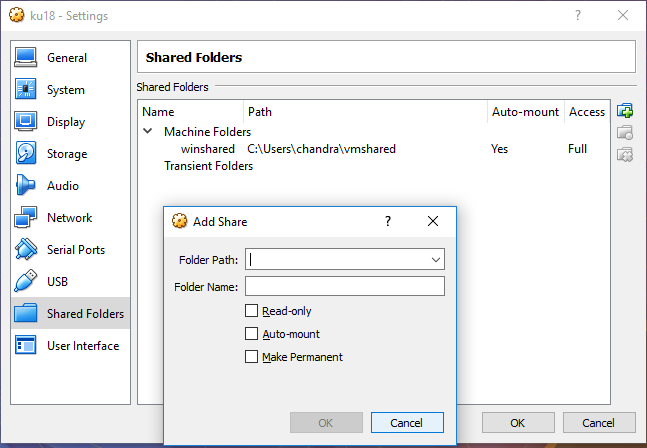
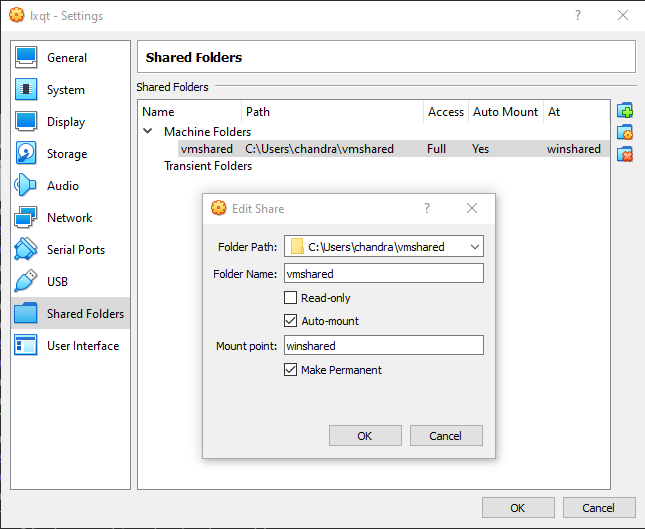
JAC

Changed region(s): [[0.0, 0.0, 1.0, 1.0], [0.0, 0.9062, 0.031, 0.9375]]

diff --git a/index.html b/index.html
@@ -221,7 +221,7 @@ the exercises.
 <h4>Timing</h4>
 <a href="nowhere" onclick='$("#timing").toggle(); return(false)'>&#9660;&#9650;</a>
 <div class="slide" id="timing">
-<h6>Tues 30 and Wed 31 October 2018</h6>
+<h6>Wed 17 and Thu 18 November 2021</h6>
 <table>
 <tr><td>0930 to 1100</td><td>Course</td></tr>
 <tr><td>1100 to 1130</td><td>Coffee break</td></tr>
@@ -231,18 +231,6 @@ the exercises.
 <tr><td>1530 to 1600</td><td>Coffee break</td></tr>
 <tr><td>1600 to 1730</td><td>Course</td></tr>
 </table>
-
-<!--
-<h6>Friday</h6>
-<table>
-<tr><td>0930 to 1100</td><td>Course</td></tr>
-<tr><td>1100 to 1300</td><td>Coffee break, Friday Seminar and
-Lunch break (lunch not provided)</td></tr>
-<tr><td>1300 to 1500</td><td>Course</td></tr>
-<tr><td>1500 to 1530</td><td>Coffee break</td></tr>
-<tr><td>1530 to 1730</td><td>Course</td></tr>
-</table>
--->
 
 <a href="nowhere" onclick='$("#timing").hide("fast"); return(false)'>&#9650;</a>
 <hr/>
@@ -294,13 +282,14 @@ with one being the &quot;flagship&quot; flavour or spin.
 <li>KDE</li>
 <li>XFCE</li>
 <li>LXDE</li>
+<li>LXQt</li>
 <li>Mate</li>
 <li>Cinnamon</li>
 </ul>
 <p>
-The difference between flavours is not just in looks but also in the amount
-of resources they use. Some like XFCE are really lightweight and well suited
-for older, low spec machines.
+The difference between flavours is not just in looks but also in the amount of
+resources they use. Some like XFCE and LXQt are really lightweight and well
+suited for older, low spec machines.
 </p>
 
 <a href="nowhere" onclick='$("#whatlinux").hide("fast"); return(false)'>&#9650;</a>
@@ -366,8 +355,8 @@ the fact that a resource is shared with other VMs.</li>
 </ul>
 <p>
 We will use <em>Oracle VirtualBox</em> to provide us with a virtual machine
-on which we will now install a flavour of <em>Ubuntu</em> Linux known as
-<em>Kubuntu</em>.
+on which we will now install a flavour of <em>Fedora 34</em> Linux known as
+<em>LXQt</em>.
 </p>
 <p>
 If you had a new physical machine with no OS, the process of installing
@@ -423,9 +412,9 @@ areas of the disk to be read.</li>
 <h5>So...</h5>
 <ul>
 <li>It is usual to boot from a live image and then do a full install.</li>
-<li>The boot image we will be using is <em>Kubuntu 18.04.3 LTS</em>.</li>
+<li>The boot image we will be using is <em>LXQt spin of Fedora 34</em>.</li>
 <li>It has been downloaded from
-<a href="https://kubuntu.org/" target = "_blank">kubuntu.org</a></li>
+<a href="https://spins.fedoraproject.org/" target = "_blank">spins.fedoraproject.org</a></li>
 </ul>
 <a href="nowhere" onclick='$("#firstboot").hide("fast"); return(false)'>&#9650;</a>
 <hr/>
@@ -439,12 +428,13 @@ areas of the disk to be read.</li>
 <div class="slide" id="winvd">
 <ul>
 <li>Press the tab key once while keeping the windows key pressed. 
-I will refer to this as the <em>Meta-tab</em> combination from now on.</li>
+In Linux and Unix literature and documentation this key is often referred to as
+the <em>super key</em>.</li>
 <li>Then click on the &quot;+ New Desktop&quot; icon in the lower right part
 of the screen.</li>
 <li>Do the above again to end up with a total of 3 virtual desktops.</li>
 <li>Click on the first one.</li>
-<li>You can also use the Meta-Control-Arrow key combination to switch between
+<li>You can also use the Super-Control-Arrow key combination to switch between
 the virtual desktops.</li>
 </ul>
 <a href="nowhere" onclick='$("#winvd").hide("fast"); return(false)'>&#9650;</a>
@@ -468,8 +458,8 @@ it disabled.
 &rarr; Host Key Combination
 </li>
 <li>Set this to the Alt key on the right of the space bar.</li>
-<li>Ask for a new virtual machine. Give it a name. (We suggest &quot;ku20&quot;)</li>
-<li>Change the type to Linux and Version to 64bit Ubuntu.</li>
+<li>Ask for a new virtual machine. Give it a name. (We suggest &quot;lxqt&quot;)</li>
+<li>Change the type to Linux and Version to 64bit Fedora.</li>
 <li>Specify the amount of memory you want it to use.
 We will use 8192 MB.</li>
 <li>Create a <em>virtual hard disk</em>.</li>
@@ -477,16 +467,16 @@ We will use 8192 MB.</li>
 <li>We will use a fixed storage size of 20 GB and create the
 virtual hard disk.</li>
 <li>In settings, we increase the number of processors to use to 3 and
-the video memory to about 84 MB.</li>
+the video memory to about 64 MB.</li>
 <li>A virtual optical drive is provided and we will put our bootable
 image file in it.<br/>
-<em>C:/coursefiles/IntroLinux/kubuntu-20.04.3-desktop-amd64.iso</em></li>
+<em>C:/coursefiles/IntroLinux/Fedora-LXQt-Live-x86_64-34-1.2.iso</em></li>
 <li>Rest of the default settings are fine.</li>
 <li>Click on the green arrow labelled &quot;Start&quot; to boot the VM and wait till you
 get something like below.</li>
 </ul>
 <br/>
-<img src = "install_button.jpg" width = "600 px"/>
+<img src = "liveboot.jpg" width = "800 px"/>
 <br/>
 <a href="nowhere" onclick='$("#ovb").hide("fast"); return(false)'>&#9650;</a>
 <hr/>
@@ -494,10 +484,10 @@ get something like below.</li>
 <!-- }}} -->
 
 
-<!-- {{{ Installing Kubuntu 18.04 LTS -->
-<h4>Installing Kubuntu 18.04 LTS</h4>
-<a href="nowhere" onclick='$("#kuinst").toggle(); return(false)'>&#9660;&#9650;</a>
-<div class="slide" id="kuinst">
+<!-- {{{ Installing Fedora 34 (LXQt) -->
+<h4>Installing Fedora 34 (LXQt)</h4>
+<a href="nowhere" onclick='$("#linuxinst").toggle(); return(false)'>&#9660;&#9650;</a>
+<div class="slide" id="linuxinst">
 <!--
 <ul>
 <li>Ask for a new virtual machine. Give it a name.</li>
@@ -508,6 +498,9 @@ I will talk you through the installation process as I do it and you
 should follow the steps on your machines. Hopefully, at the end of it
 we will all have Linux running in our VMs.
 </p>
+<ul>
+  <li>Set the regular user you create to be an administrator as well.</li>
+</ul>
 
 <p>
 Example username: stu26 (use whatever you like but not too long)<br/>
@@ -519,7 +512,7 @@ Suggested hostname: vlin
 It is important to remember the password you use here.
 </p>
 
-<a href="nowhere" onclick='$("#kuinst").hide("fast"); return(false)'>&#9650;</a>
+<a href="nowhere" onclick='$("#linuxinst").hide("fast"); return(false)'>&#9650;</a>
 <hr/>
 </div>
 <!-- }}} -->
@@ -530,30 +523,40 @@ It is important to remember the password you use here.
 <a href="nowhere" onclick='$("#postinst").toggle(); return(false)'>&#9660;&#9650;</a>
 <div class="slide" id="postinst">
 <ul>
-<li>Set screen resolution to 1680x1050 for now.</li>
 <li>Make <span class="code">sudo</span> passwordless.</li>
 </ul>
+<pre class="code">
+sudo EDITOR=nano visudo
+</pre>
 <ul>
 <li>Update all the software packages.</li>
 </ul>
 <pre class="code">
-sudo apt update
-sudo apt upgrade
+sudo dnf check-update
+sudo dnf update
 </pre>
 
-While the packages are being upgraded we will
 <ul>
-<li>Configure Virtual desktops and switching shortcuts.</li>
-<li>Configure the task manager.</li>
+<li>While the packages are being upgraded we will</li>
+<ul class="lev2">
+<li>Increase the number of virtual desktops to four.</li>
+<li>Configure the task manager to show only tasks from the current desktop.</li>
+<li>And make a new user group named <em>training</em> and modify our login to
+make ourself a member of this group.</li>
+</ul>
+<pre class="code">
+sudo groupadd training
+sudo usermod -a -G training sco
+</pre>
 </ul>
 
-Before we can install VirtualBox Gest Additions we need install GCC and make,
+<!--
+Before we can install VirtualBox Guest Additions we need install GCC and make,
 and reboot the virtual machine.
 <ul>
 <li>Install <span class="code">GCC</span> and <span class="code">make</span></li>
 <li><span class="code">sudo reboot</span></li>
 </ul>
-
 
 <ul>
 <li>VirtualBox Guest Additions.</li>
@@ -562,48 +565,45 @@ and reboot the virtual machine.
 cd /media/stu26/VBox_GAs_6.0.14
 sudo ./VBoxLinuxAdditions.run 
 </pre>
+-->
 
+<ul>
+  <li>Once the updates are done we will shut down the virtual machine by one of
+    the following commands</li>
+</ul>
+<pre class="code">
+sudo poweroff
+sudo shutdown -h now
+# sudo reboot # Do not use now.
+</pre>
+
+<p>
+After the reboot, go to the virtual desktop 3 and start the Falkon web browser.
+In the browser go to this <br/>
+http://streptomyces.org.uk/customers/training/linux/nov2021/<br/>
+URL. This is to minimise the need to switch between Windows and our
+Linux virtual machine.
+</p>
 
 <ul>
 <li>Install <em>parallel</em></li>
 </ul>
 <pre class="code">
-sudo apt install parallel
+sudo dnf install parallel
 </pre>
 
 <ul>
-<li>Search and install <em>NCBI Blast+</em></li>
+<li>Install <em>NCBI Blast+</em></li>
 </ul>
-<pre class="code">
-sudo apt search ncbi-blast
-sudo apt install ncbi-blast+
-</pre>
-
-<ul>
-<li>Make a new user group named <em>training</em> and add yourself to it.</li>
-</ul>
-<pre class="code">
-sudo addgroup training
-sudo addgroup stu26 training
-</pre>
-
-<ul>
-<li>Reboot.</li>
-</ul>
-<pre class="code">
-sudo reboot
-</pre>
-
 <p>
-After the reboot, go to the virtual desktop 3 and start Firefox.
-In Firefox, go to this <br/>
-http://streptomyces.org.uk/customers/training/linux/
-URL. This is to minimise the need to switch between Windows and our
-Kubuntu virtual machine.
-</p>
-<p>
-If you have not already done so, make your virtual machine full screen.
-</p>
+<a href="https://ftp.ncbi.nlm.nih.gov/blast/executables/blast+/LATEST/" target="_blank">
+  From here</a> you can get the following FTP url<br/>
+<em>https://ftp.ncbi.nlm.nih.gov/blast/executables/blast+/LATEST/ncbi-blast-2.12.0+-1.x86_64.rpm</em><br/>
+which can be fed to <em>dnf</em> directly.
+<pre class="code">
+sudo dnf install \
+https://ftp.ncbi.nlm.nih.gov/blast/executables/blast+/LATEST/ncbi-blast-2.12.0+-1.x86_64.rpm
+</pre>
 
 <a href="nowhere" onclick='$("#postinst").hide("fast"); return(false)'>&#9650;</a>
 <hr/>
@@ -616,11 +616,11 @@ If you have not already done so, make your virtual machine full screen.
 <a href="nowhere" onclick='$("#gui").toggle(); return(false)'>&#9660;&#9650;</a>
 <div class="slide" id="gui">
 <ul>
-<li>The desktop and the window manager.</li>
-<li>Several desktop environments are available e.g. KDE, Gnome, XFCE, LXDE</li>
+<li>The desktop environment and the window manager.</li>
+<li>Several desktop environments are available e.g. KDE, Gnome, XFCE, LXDE, LXQt.</li>
 <li>They come with their window managers.</li>
-<li>KDE (at this time) uses a window manager known as Plasma.</li>
-<li>At work I use KDE but with a different window manager (i3wm).</li>
+<li>LXQt uses a window manager known as Openbox.</li>
+<li>I usually use KDE but replace the default Plasma window manager with i3wm.</li>
 <li>If you use start using Linux regularly it is worth trying out some
 of the other desktops / window managers. You might find something better suited
 to your style of working.</li>
@@ -641,6 +641,20 @@ that yourself.</li>
 <a href="nowhere" onclick='$("#OS").toggle(); return(false)'>&#9660;&#9650;</a>
 <div class="slide" id="OS">
 <img src = "architecture.jpg"><br/>
+<ul>
+  <li>Kernel is the only layer that can talk to the hardware.</li>
+  <li>Processes make requests to the kernel using <em>system calls</em>.</li>
+  <li>Programmers have access to system calls via an <em>Application
+      Programming Interface</em> which is available in the form of a <em>C
+      library</em> which in case of Linux happens to be <em>glibc</em>.</li>
+  <li>The application layer is itself multilayered.</li>
+  <ul class="lev2">
+  <li>BASH provides you with a user interface in the form of commands it recognizes.</li>
+  <li>It interprets and translates your commands into system calls for the kernel.</li>
+  <li>The kernel get the hardware to do what is needed.</li>
+  </ul>
+  <li>A byte compiled language such as Java has an additional layer.</li>
+</ul>
 <div class="instructor">
 * Memory is volatile, storage is permanent.
 * The processor has a tiny amount of memory (registers and caches).
@@ -664,7 +678,7 @@ that yourself.</li>
 <ul>
 <li>Commands are typed in a <em>terminal</em>.</li>
 <li>They are interpreted by a <em>command interpreter</em>.</li>
-<li>The program providing us with a terminal in Kubuntu is <em>Konsole</em>.</li>
+<li>The program providing us with a terminal <em>Qterminal</em>.</li>
 </ul>
 <a href="nowhere" onclick='$("#cli").hide("fast"); return(false)'>&#9650;</a>
 <hr/>
@@ -678,14 +692,14 @@ that yourself.</li>
 <div class="slide" id="newterm">
 <ul>
 <li>It is quite common to be working in more than one terminal at the same time.</li>
-<li>You can use the menu in an existing Konsole terminal to get a new terminal.</li>
+<li>You can use the menu in an existing Qterminal to get a new terminal.</li>
 <li>Or, you can use the Control-Shift-N key combination.</li>
 <li>As a convenience, the new terminal has the same current directory
 as the old one.</li>
 </ul>
 <hr class="thin"/>
 <ul>
-<li>To close a Konsole terminal you can use the menu.</li>
+<li>To close a Qterminal you can use the menu.</li>
 <li>Or, the Control-Shift-W key combination.</li>
 <li>Or, the Control-D key combination.</li>
 </ul>
@@ -693,7 +707,7 @@ as the old one.</li>
 <div class="diy">
 <h6>Do the following yourself.</h6>
 <ol>
-<li>Use the start menu to get a Konsole terminal.</li>
+<li>Use the start menu to get a Qterminal.</li>
 <li>From the existing terminal, use both means described above
 to get two new terminals.</li>
 <li>Kill one of the new terminals with one key combination mentioned above.</li>
@@ -1027,7 +1041,7 @@ e.g. <span class="code">help history</span>.
 <div class="diy">
 <h6>Do the following yourself.</h6>
 <ol>
-<li>Get a new Konsole terminal and view the man page for
+<li>Get a new Qterminal and view the man page for
 <span class="code">ls</span> in it.</li>
 <li>Search for the string &quot;file size&quot; to figure out the option
 you need to sort your directory listing by file size.</li>
@@ -1061,11 +1075,11 @@ directory.</li>
 <pre class="code">
 man -Tps find &gt; man_find.ps
 ps2pdf man_find.ps man_find.pdf
-okular man_find.pdf
+qpdfview-qt5 man_find.pdf
 </pre>
 <ul>
-<li>Use the okular menu or control-q to quit okular.</li>
-<li>PDF files are searchable but Postscript files are not (at least in okular).</li>
+<li>Use the qpdfview-qt5 menu or control-q to quit qpdfview-qt5.</li>
+<li>PDF files are searchable but Postscript files are not (at least in qpdfview-qt5).</li>
 </ul>
 <a href="nowhere" onclick='$("#help").hide("fast"); return(false)'>&#9650;</a>
 <hr/>
@@ -1153,7 +1167,7 @@ Shared Folders Settings.</li>
 <li>In &quot;Folder Path&quot; find the host (Windows) directory you wish to share.</li>
 <li>&quot;Folder Name&quot; will fill itself. You may change it, but remember
 the name. Click &quot;OK&quot;.</li>
-<li>Back in Kubuntu, in a terminal, I will talk you through the following
+<li>Back in Linux, in a terminal, I will talk you through the following
 commands.</li>
 <li class="code">cd</li>
 <li class="code">mkdir winshared</li>
